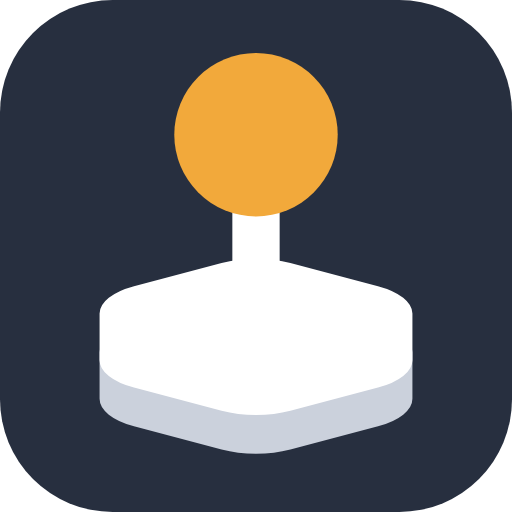
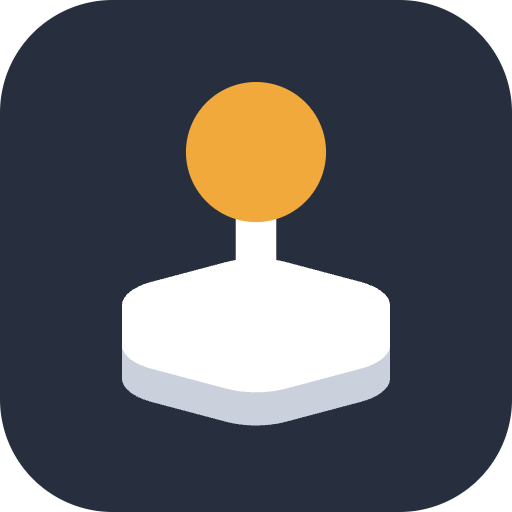
A splash that says the app's name
The static splash was the mark alone: the app opened on a joystick, and
the wordmark appeared only once the curtain took over, popping in from
nothing a third of the way through the animation. Now the name is there
from the first frame, and the curtain opens on the same picture.

Composition chosen against rendered alternatives rather than argued:
mark centred and 70pt above the optical centre, wordmark low. Two
earlier attempts were worse and worth recording. A tight lockup reads
as one object and is the only arrangement reproducible to the pixel on
every device, but it puts the name directly under the mark rather than
at the foot. The first attempt was a hybrid — mark slightly high, word
mid-screen — which committed to neither and left a third of the screen
empty between them.

The accepted cost of this one is drift. SplashCurtain pins its wordmark
11% off the bottom, a fraction of the screen and so a different number
of points on every device; the iOS storyboard centres a single image
scaled by width and offers no bottom anchor, so no file can express
that. The word lands at 85% on a phone, 95% on an SE and 75% on an
iPad. Measured, not assumed.

Three things had to be decoupled that were quietly tied together.

The mark's size and the wordmark's size. Both were expressed in the
mark's units, so shrinking the mark from 180 to 130 also shrank the type
by 28%. The canvas is now sized for the type and `imageWidth` derived
[…]

diff --git a/src/components/SplashCurtain.tsx b/src/components/SplashCurtain.tsx
@@ -55,7 +55,27 @@ import { COLORS } from '@/styles/colors';
  */
 
 /** Matches `imageWidth` in the splash config. Both, or the hand-off jumps. */
-const MARK = 180;
+const MARK = 145;
+
+/**
+ * Where the static splash left things, in points from the screen centre.
+ *
+ * Mirrored from scripts/brand-assets.mjs, which draws the same two
+ * offsets into splash.png. The storyboard centres that file and scales
+ * it by width, so the centre is the one anchor both sides can agree on
+ * regardless of device — everything here is measured from it.
+ *
+ * The curtain therefore opens on exactly the picture the reader was
+ * already looking at, and animates away from it. Change either number
+ * without changing the other and the wordmark jumps the instant the app
+ * finishes loading, which is the one frame this whole component exists
+ * to make invisible.
+ */
+const MARK_RISE = 70;
+const WORD_DROP = 300;
+
+/** Where `foot` puts the wordmark once it has arrived. */
+const FOOT_FRACTION = 0.11;
 
 /** The whole thing, start to gone. */
 const RUN = 1250;
@@ -394,14 +414,35 @@ export function SplashCurtain() {
         style={[
           styles.foot,
           {
-            opacity: at(shaped(WORD, 0, 1, easeOutCubic)),
+            /**
+             * Visible from the first frame, because the static splash
+             * already showed it. Fading it in here would fade in
+             * something the reader is looking at.
+             */
+            opacity: 1,
             transform: reduced
-              ? []
+              ? [{ translateY: 0 }]
               : [
-                  // Rises past its resting place and settles back onto
-                  // it, growing the last few percent as it lands.
-                  { translateY: at(shaped(WORD, 26, 0, springOut(2, 6))) },
-                  { scale: at(shaped(WORD, 0.9, 1, backOut(1.9))) },
+                  /**
+                   * Travels from where the image put it down to the
+                   * foot, rather than rising into place from nothing.
+                   *
+                   * `foot` is anchored 11% off the bottom, so its
+                   * distance from the centre is a fraction of THIS
+                   * screen — computed rather than guessed, which is the
+                   * whole reason the curtain can match an image it
+                   * cannot see.
+                   */
+                  {
+                    translateY: at(
+                      shaped(
+                        WORD,
+                        screen.h * (0.5 - FOOT_FRACTION) * -1 + WORD_DROP,
+                        0,
+                        springOut(2, 6)
+                      )
+                    ),
+                  },
                 ],
           },
         ]}
@@ -426,14 +467,23 @@ const styles = StyleSheet.create({
     // the app not having opened yet.
     zIndex: 100,
   },
-  /** Centred, and the origin every spark is thrown from. */
-  stage: { alignItems: 'center', justifyContent: 'center' },
+  /**
+   * Centred, and the origin every spark is thrown from — then lifted to
+   * where the static splash drew the mark, so the first frame matches.
+   */
+  stage: {
+    alignItems: 'center',
+    justifyContent: 'center',
+    marginBottom: MARK_RISE * 2,
+  },
   spark: { position: 'absolute' },
   foot: { position: 'absolute', bottom: '11%' },
   wordmark: {
     fontFamily: 'Noah-Black',
-    fontSize: 17,
-    letterSpacing: 6,
+    // 20/7, matching the static splash. At 17 it read as fine print on
+    // a launch screen, which is not what a wordmark is for.
+    fontSize: 20,
+    letterSpacing: 7,
     color: COLORS.white,
   },
 });
